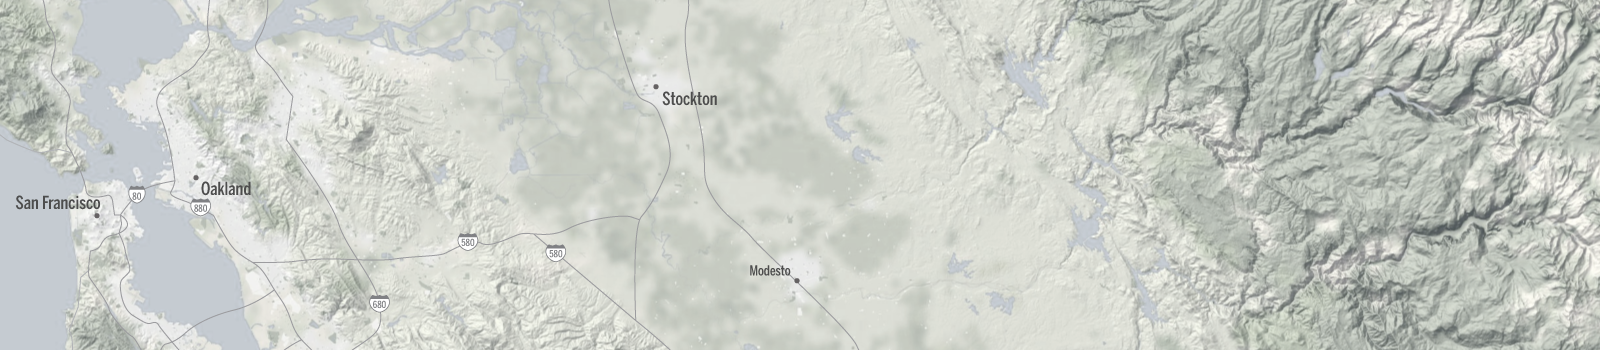
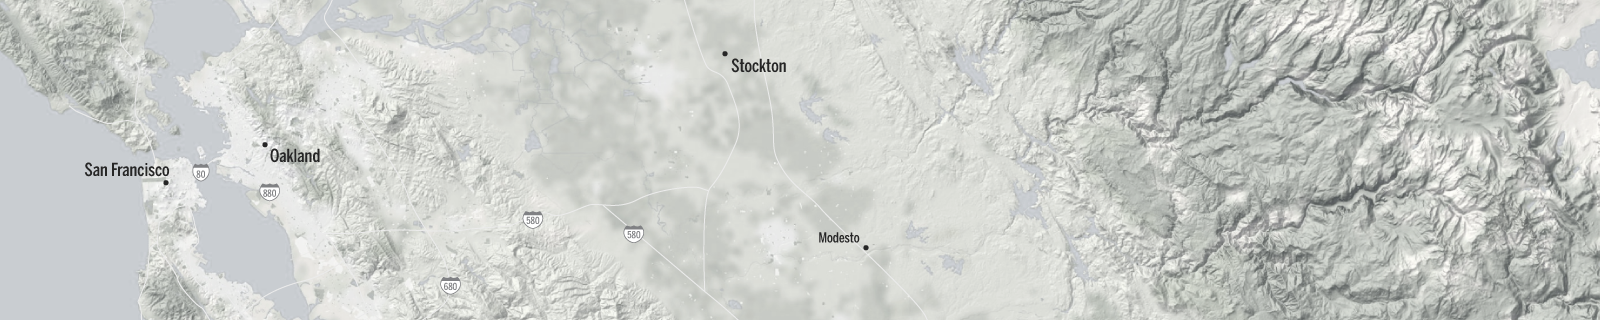
Add background colored polygon to map text

diff --git a/index.html b/index.html
@@ -21,101 +21,102 @@
         <div id="svgShape">
                 <svg version="1.1"
                      baseProfile="full"
-                     width="1600" height="350"
-                     viewBox="0 0 1600 350"
+                     width="1600" height="320"
+                     viewBox="0 0 1600 320"
                      xmlns="http://www.w3.org/2000/svg">
-                    <path fill="none" stroke="#636E6C" stroke-width="3" stroke-miterlimit="3.8637" d="
-                    M1522.372,207.638l4.882-19.149l-2.427-2.867l-0.813-2.043l-7.231,0.162l-2.477-0.573l-4.798-2.127l-16.026-3.763l-5.238-1.887
-                    l-9.763-9.981l-4.203-2.616l-9.007-3.852l-8.149-5.728l-1.353-2.288l-15.914-0.824l-18.914-0.161l-4.575,1.965l-3.201,0.573
-                    l-6.151-0.251l-4.809-1.141l-3.167,0.979l-3.317,2.049l-4.42,1.72l-13.493,2.126l-3.307,0.161l-7.442-0.735l-4.592-2.126
-                    l-1.102-1.063l-7.431-2.539l-5.304-1.146l-6.463-3.195l-3.145-2.694l-0.345-2.622l-8.144-2.371l-4.158-0.573l-0.752,0.573
-                    l-9.975,2.861l-1.43,1.147l-6.981,9.902l-4.564,3.518l-14.551,6.468l-4.38,5.56l-6.491,4.746l-6.207,2.206l-4.453,0.398
-                    l-5.171-0.178l-12.664,3.256l-8.021,2.984h-6.658l-5.16-5.516l-13.927,1.852l-3.329,1.882l-2.56,3.721l-0.819,2.231l-1.709,2.83
-                    l-2.733,3.419l-2.9,2.859l-0.968,1.549l-3.841,3.188l-1.887,0.823l-3.122,0.489l-9.213-0.49l-5.772,0.322l-4.019-0.568
-                    l-2.416-1.314l-1.614-1.714l-1.258-4.258l-0.862-1.475l-5.01-3.028l-5.06-4.086l-4.331-7.042l-3.562-4.336l-8.389-2.861
-                    l-5.082-0.412l-5.249,0.735l-7.898-1.147l-4.364-1.47l-1.688,1.316c-2-2.333-4.333-3.5-5.333-3.5s-3.333,0-4.667,0
-                    c-1.333,0-7.333-4.583-10-5.583c-2.667-1-0.333,4.25-1.333,5.25s-4.333,3.083-4.333,6.417c0,3.333-3.333,3.875-5.667,5.542
-                    s-2.333,6.604-0.667,7.271c1.667,0.667,5,0.302,10.333,1.969c5.333,1.667,2.667,3.318,6.333,3.651s3.333,2.992,5,5.326
-                    c1.667,2.333,1.667,7.996,0.667,8.329c-1,0.333-2.667,2.665-3.333,5.331c-0.667,2.667-1.667,5.666-3.667,5.666
-                    s-0.667,3.666,0.333,5c1,1.333,0,5.666-0.333,7.333c-0.333,1.667-3.333,5.667-4.667,5s-4.333,2.333-5,3.333
-                    s-8.667,8.667-10.667,7.333c-2-1.333-5,1.333-5.333,4c-0.333,2.667-2.667,6.333-4.333,8c-1.667,1.667-4.667,7.333-5.333,10
-                    c-0.667,2.667-6,2-7.667,1.333c-1.667-0.667-7.667-0.667-11-1c-3.333-0.333-6.667,7-7,11c-0.333,4-6.333,9.667-8.333,12.333
-                    c-2,2.667-7,2.667-9.667,0.333c-2.667-2.333-8.667-4-11-3.667c-2.333,0.333-3-2-5.333-1c-2.333,1-6.333-2-9-2.667
-                    c-2.667-0.667-11.5,0.833-14.667,3.333c-3.167,2.5-6.333,1.167-8.5-0.167c-2.167-1.333-1.833-2-4.5-1.667
-                    c-2.667,0.333-7.833-0.833-9.5-2c-1.667-1.167-4.833-1.833-7.167-2.167c-2.333-0.333-9.5-0.5-11.167,1
-                    c-1.667,1.5-2.333,4-4.667,3.167C931.833,283,931.833,282,930,283.667c-1.833,1.667-5,0.667-7.333,1
-                    c-2.333,0.333-12,0.833-14.333,1.833c-2.333,1-13.167,8.333-14.833,10.833s-3.333,1.5-5.167,1.5c-1.833,0-5.167-1.667-8.167-2.167
-                    s0,0-2.667-0.833c-2.667-0.833-1.167-1.667-3.5-1.833s-3.167-0.167-4,1s-1.5,1.167-1.833,0.667c-0.333-0.5-1.667-0.167-2.5,1.167
-                    c-0.833,1.333-1.833,0.333-2.833,0.333s-1.167-1.5-1.167-3.5s-0.833-4-1.167-5.5s-3.5,0.5-3.667,1.667c-0.167,1.167-2,1.5-4,1.5
-                    s-3.167,0.333-2.667,1.167s-1.333,2.167-2.167,2.5s-2.5-1-3.333-1.667c-0.833-0.667-1.833-0.833-3.333-0.333s-0.667,2.5-2.5,2.5
-                    c-1.833,0-2.833-0.667-2.833,1.167c0,1.833-1.167,2.167-4.5,1.833s-4.167,0-4.833,1.167c-0.667,1.167-2.333-0.167-2.167-1.167
-                    s0.333-2-2.667-2s-1.833-0.333-2.167-1.5c-0.333-1.167-7-2.167-8.333-1.333c-1.333,0.833-4.667,0.167-5.5-1
-                    c-0.833-1.167-4.167-2.5-4.833-1.833c-0.667,0.667-4,0.167-5.833,0.667c-1.833,0.5-3.667,2-0.5,3c3.167,1-1.5,2.167-1.333,5
-                    c0.167,2.833-4.667,2-6.167,1.667c-1.5-0.333-2.167-0.167-3,0.833c-0.833,1-4.167,1-5.333-0.333c-1.167-1.333-4.667-1.5-6.167-1.5
-                    s-4.667,4.167-4.833,5.667c-0.167,1.5-0.833,3-0.833,4.167s-3,2.5-4,5.333c-1,2.833-7.5,1.5-8.167-1.333
-                    c-0.667-2.833-4.333-1.333-4.5,1c-0.167,2.333-2.333,2.167-4.333,1.833c-2-0.333-3.833,0.333-4.5,2
-                    c-0.667,1.667-2.333,1.333-2.667-0.167c-0.333-1.5-0.5-3.833-2-2.667s-3.167-0.167-3.5-0.667C733,314.833,731,311,731,313
-                    s-0.833,2.167-3,1s-3.667,0-4.5,1.833c-0.833,1.833-5.5,1.667-7,1.833c-1.5,0.167-3.5-1.333-3.167-3.667
-                    c0.333-2.333-1.667-1.833-2.667-1.667c-1,0.167-0.167-6.333,0.5-8.5c0.667-2.167,0.5-4-1.333-3.667c-1.833,0.333-2.5,1-2.5-0.333
-                    c0-1.333-0.167-4.833-1.5-4.833c-1.333,0-2.833-4.5-3-6c-0.167-1.5-1.833-3.667-4.167-4.667c-2.333-1-3,3.333-4.167,6.167
-                    s-2.333-1.333-3.167-2.667c-0.833-1.333-0.333-3-1.667-2.667c-1.333,0.333-4.167,3-5,1.333c-0.833-1.667,0.333-4,1.5-5.167
-                    c1.167-1.167,2.5-3.833,0.333-4c-2.167-0.167-5-1.333-6.25-2.083s-0.75-3-0.75-6.25s-2-2.75-2.5-0.5s-3.25,1.5-3.5,0
-                    s-0.25-3.25-2.75-3.5s-2.25-2.75-2-5.25s4.5-4.25,2-5s-5,2-8,0.5s1.75-3,1.75-5s-1.5-3-1-6s5.75-8.25,4.75-9s-5.5-1.5-6.75,0
-                    s-0.25,6.75-0.75,4.5s-5.25-1-4.5-1s-0.5-4.5-0.75-6.25s-2.25-0.5-3-0.75s-0.5-3.5-0.25-5.5s2.5-7,1.25-10.5s-2.5,0.5-4.75,0.5
-                    s-0.75-1.25-0.5-5s3.75-2.75,4-4.25s-0.75-1-3.25-1s-1.5-5.25,0.75-5s4.75-0.5,7.25-1.75s1-3.25,0.25-2.75s-7,2.5-7.75,1.75
-                    s-1.25-2-1.75-4s-0.5-4.751-0.5-4.751s-2.25,2.249-3.25,0.499s0-7.003-1-6.753s-5.5-0.005-6.25-1.505s-1.75-6.76-4.5-5.76
-                    s-9.5,0.979-11.25-1.521s-7.25-0.042-9,2.208l-1.867,1.124L606,181.375l-3.052-1.509L598.25,181l-5.5-3.5l-4.25-4.5l-0.875-3.125
-                    l-0.315-4.002l0.267-4.642l0.863-2.544l3.968-6.736l11.934-4.844l0.78-6.095l-1.342-4.097l-1.497-2.911l-4.904-3l-9.892,0.907
-                    l-5.258,1.861l-1.48,1.353l-3.375,1.125l-6.75-0.25l-3.75-1.375l-4.534-0.491l-4.795-6.226l-5.906-8.917l-2.833-2.366l-3.084-1.731
-                    l-1.136-1.275l-0.089-1.636l-2.249-5.734l-1.798-1.548l-0.941-3.006l1.008-5.455l-1.264-2.372l0.29-3.089l0.818-2.823l0.29-4.008
-                    l-0.624-0.813l-0.556-7.464l3.334-4.643l1.208-5.366L543.125,63l-2.01-5.238l-0.785-2.366l-1.77-1.91l-2.739-5.549l0.1-6.19
-                    c0,0-9.099-5.127-13.137-2.515c0,0-7.785,0.267-8.285,3.517s-1.75,4.75-4,5.25s-4.25,2.25-5.75,3.5s-2-5.25-5.75-6.5s-4-3.75-5-5
-                    s-2.25,0-3-0.5s0.75-2.5-1-3.25s0.25-0.25-1.75-0.75s-2.75-1-3.5,0.5s-0.5,2.25-2.5,0s-2.25-4.25-2-5.25s-2-0.5-4.75-0.25
-                    s-2.25-2-5.25-1s-4,0.5-5.5,1.75s-2.25,2-2.25,4.5s-0.25,3.5-2,4.25s-2,2.25-4.25,3s-9,0.25-8.25,3.75s7.5,6,10.75,2.5
-                    s5.25,3.25,6.25,4s1.25,3.25-2.25,3.75S460,61.25,458,59.75s-4-4.75-4-2s1,4-4.75,0.25s-1.75,1.25-8.25-2.5s-9.75-3.5-15-1.75
-                    s-11.75,1.5-14.75,0.25s-2.5,1.75-5,0.75s-4.25-2.75-7.5-4.5s-3.25,0-6.25-0.75s-5.25-3.25-7.25-2.75s-2.25,1-9.5-2.5
-                    S370.5,38,367,38.75s-6.5,3.25-11.5,0s-5.5,0.25-9.25-1s-5.25-5.5-8.25-4s-6.75,2.25-12.25,1.75s-5.25-4.25-9.5-4
-                    s-9-1.75-12.75-2.75s-9,2.5-13.5,4.75s-2.75-2.75-9.5-0.5s-28.25,10.5-32,15.75s-7.75,2.25-11.25,0S227.25,33.5,220,32
-                    s-19.5-4-22.75-3.25s-0.5,2.75-4,3s-5-0.75-5.25,3.5s-1,6.25-3.75,5.25s-2.5,12.75-6.5,11.75s-2.75,0.25-5.25,2.5
-                    s-2.75,4.75-7.25,3.5s-4.5,4.5-8.75,4.5s-11.25-2-15.5-5.25s-3.5,2.5-2,5.75s4.5,7,2.75,7.5s-1,2-1.5,4.25s-2,2-3,2
-                    s0.5,3.25-1.5,3.25s-2.25-2.75-4.25-2s-0.25,4.5-2.75,4.5s-6,0.5-4.75,3.5s0.75,4-0.5,3.25s0.75,3.75-1.25,2.75s-3.75-6.75-8-7
-                    S106.5,83.75,108,87s3.5,4.75,4.5,6s1.5,2-0.5,2.5s-0.25,3,1.25,2.5s10.25,2-5.25,9"/>
-                    <g id="#section_9"> 
-                        <circle cx="123.682" cy="85.282" r="8"/>
-                        <text transform="matrix(1 0 0 1 62.5 73)">chapter 9</text>
+                    <path fill="none" stroke="#5ABAE0" stroke-width="2.5" stroke-miterlimit="3.8637" d="
+                    M1519.667,141.167c-3.333-1.333-21.333,5.333-24.667,0.667c-3.333-4.667-3.333-12-10.667-10c-7.333,2-11.333-14-22.667-14
+                    c-11.333,0-22.667-7.333-30-12.667c-7.333-5.333-5.333-2.667-12-8.667c-6.667-6-9.333-7.333-16-7.333c-6.667,0-7.333,4-16.667-2
+                    s-14.667-3.333-23.333,0c-8.667,3.333-23.333,10-33.333,10.667c-10,0.667-14-4.667-24-8.667s-24.667-11.333-29.333-9.333
+                    s-6.667,10-9.333,15.333c-2.667,5.333-9.333,5.333-11.333,8.667c-2,3.333-13.333,12.667-16.667,13.333
+                    c-3.333,0.667-5.333-3.333-9.333-3.333s-14,6-18.667,7.333c-4.667,1.333-11.333,2-16-3.333C1191,112.5,1187,118.5,1181,120.5
+                    s-4.667,8.667-5.333,17.333c-0.667,8.667-9.333,0.667-13.333,2c-4,1.333-9.333,2-14.667,0c-5.333-2-8-2.667-12.667-6.667
+                    s-3.333-7.333-8-13.333s-8-11.333-14-7.333s-5.333-2-10.667-4c-5.333-2-7.333-0.667-11.333,1.333s-4-2-8.667-1.333
+                    c-4.667,0.667-8.667,6.667-13.333,11.333c-4.667,4.667-6-2-10.667-2.667c-4.667-0.667-8.667-1.333-8.667,6.667
+                    s-0.667,9.333-3.333,18l-0.879,3.667c8.545,5,19.545,2,29.545,4c2,1,4,2,5,3c4,7,9,12,14.517,17.003c0,0-5.517,2.997-8.017,9.997
+                    s-6,18.5-15.5,16s-15.5-11.5-22.5-7l-26.084,22.899C1013,212.5,1012,221.5,1008,228.5c-4,8-12,4-19,4c-2,0-3,2-4,3c-3,8-5,20-17,17
+                    c-13-3-26-11-38-2c-11-1-24-12-35-3c-1,1-3-1-4-1s-1,2-2,2c-13-2-25,5-35,13c-3-2-7-3-11-4c-2,0-5,1-7,2c-7,2-5-4-7-8h-2
+                    c-2,2-3,4-7,3c0.392,2.627,1.52,0.557,0,0c0.34,2.979-1.766,1.877-3.679,1.736c-2.834-0.21-5.486,1.259-8.321,1.264
+                    c0.461,3.374,2.109,0.846,0,0c0,1,0,1,0,2c-2,3-7,2-10,2c-9-2-17-11-27-7c0,0-1,1-1,2s2,1,2,2s0,1,0,2c-4,5-11,4-17,2c-2,0-5,1-6,3
+                    c0,3-2,5-3,8c-1,1-2,2-3,3c-3,0-5-1-7-4c-4,2-8,5-13,6c0.51,0.033,0.775,0.048,1.301,0.243c-0.435,0.046-0.865-0.123-1.301-0.243
+                    c0.946-1.253,0.924-2.794-0.676-2.922c-1.268-0.101-1.327,1.654-3.031,0.233c-0.787-0.656-0.916-2.862-2.129-3.018
+                    c-0.416-0.053-1.04,0.651-1.43,0.729c-1.07,0.215-1.516,0.285-2.707,0.292c-3.241,0.02-3.547,3.704-6.847,3.746
+                    c-2.483,0.032-6.134-2.159-5.18-5.061c-4.969,0.261-2.135-5.154-1.924-7.797c0.229-2.865-1.92-2.84-3.577-4.853
+                    c-1.503-1.827-2.315-4.108-3.188-6.272c-0.79-1.958-1.765-4.897-4.311-5.078c-3.179-0.225-1.174,1.996-1.763,3.696
+                    c-0.844,2.435-2.803,0.492-4.228-0.569c-1.814-1.35-3.598-2.75-6.009-2.127c0.088-1.801,2.833-5.151,1.947-6.713
+                    C673,242.5,673,237.5,671,233.5c-1-1-2,1-3,2c-2,1-2-2-2-4c-6.765,0.296-2.204-5.371-2-9c-2-1-5,1-6-1c0-5,1-10,3-15c0-1-1-2-1-2
+                    c-4-1-4,2-4.534,5.398c-0.093-0.563-0.135-1.111-0.059-1.668c0.122,0.542,0.144,1.05,0.059,1.668
+                    c-0.315-2.684-3.713-0.495-4.676-2.524c-0.613-1.292,0.896-2.94-0.391-4.187c-0.675-0.654-1.726-0.174-2.499-0.919
+                    c-3.389-3.269,2.499-10.623,0.1-14.768c-1.028,2.035-4.17,1.659-4.156-0.771c0.013-2.238,3.956-3.568,3.585-5.745
+                    c-0.308-1.805-4.594-1.224-3.708-3.939c0.544-1.668,3.428-1.343,4.752-1.523c1.354-0.184,4.904-0.814,4.438-2.889
+                    c-0.606-2.699-3.613,0.176-4.754,0.675c-4.888,2.139-4.322-4.616-4.565-7.603c-0.665,0.589-1.246,1.285-1.55,2.125
+                    c0.887-0.373,1.449-1.169,1.55-2.125c-0.693,0.67-1.641,0.926-2.592,0.797c1-4-3-5-6-7c-1-1-1-4-2-5c-5-2-11-3-16-3c-3,1-5,4-7,6
+                    c-5,3-10-1-14-2c-2-1-3-2-4-4c-2-4-2-9,0-14c3-5,8-5,13-8c1-1,3-2,3-4c1-11-13-13-21-9c-1,1-2,2-3,2c-5,2-12,3-16-3
+                    c-4-7-9-12-15-17c-7-8-2-19-3-29c8-10-1-21-4-32c0-2-4-2-7-3c-8-2-11,7-17,10c-1,0-3,1-3,1c-4-4-7-9-11-12c-2-1-3-5-7,0
+                    c-1.29-1.762,1.73-2.488,0,0c-3-6-9-10-15-6c-3,2-4,6-6,9c-3,2-7,2-10,4c1.267,2.229,4.909-2.062,0,0c2.965,3.967,8.285,6.736,12,2
+                    c1,1,3,3,4,4c0,5-6,6-10,4c-1,0-1,2-1,3c-0.366-0.686-0.71-1.435-0.832-2.161c0.509,0.599,0.772,1.368,0.832,2.161c-3-4-9-2-13-5
+                    c-1-1-1-2-2-2c-6,0-13,2-19,2c-10,0-19-5-29-7c-4-1-6-4-9-6c-4-2-8,1-12,0c-9-4-19-4-29-4c-5-4-11-7-18-6c-9,2-17,2-25,6
+                    c-7,2-15,5-21,11c-3,2-8,4-11,1c-7-7-13-17-24-18c-4,0-7,0-11,0c-2,0-5,1-6,3c-6,10-11,23-24,23c-5,6-13,2-19-1c-1,0-3,0-3,1
+                    c-1,3,2,5,3,7s2,3,1,5c-2,4-5,10-10,6c0.47,0.537,0.352,0.512,0.991,0.786c-0.237-0.391-0.461-0.508-0.991-0.786
+                    c0.06,2.515-2.408,2.928-3.994,4.183c-2.389,1.891-2.118,5.077-3.006,7.817c-1.318-1.824,1.854-1.72,0,0
+                    c-1.701-2.31-3.526-4.716-6.15-6.021c-1.363-0.678-5.235-2.114-6.326-0.223c-1.662,2.881,8.268,7.088,2.476,9.244
+                    c1.292,1.91,4.751,1.345,5.176,3.86c0.628,3.712-5.166,5.257-7.731,5.569"/>
+                    
+                        <g id="#section_10"> 
+                            <circle cx="228.076" cy="129.277" r="8"/>
+                            <rect x="130" y="75.5" width="140" height="35"/>
+                            <text transform="matrix(1 0 0 1 140.557 101.1067)"> Berkeley Marina </text>
+                        </g>
+                        <g id="#section_9">
+                            <circle cx="231.076" cy="290.277" r="8"/>
+                            <rect x="100" y="267.5" width="105" height="35"/>
+                            <text transform="matrix(1 0 0 1 110.557 293.1068)" > San Mateo </text>
+                        </g>
+                        <g id="#section_8">
+                            <circle cx="323.942" cy="63.351" r="8"/>
+                            <rect x="353" y="67.5" width="90" height="35"/>
+                            <text transform="matrix(1 0 0 1 362.557 93.1067)" > Concord </text>
+                        </g>
+                        <g id="#section_7">
+                            <circle cx="358.682" cy="281.282" r="8"/>
+                            <rect x="265" y="228.5" width="85" height="35"/>
+                            <text transform="matrix(1 0 0 1 275.557 254.1067)" > Fremont </text>
+                        </g>
+                        <g id="#section_6">
+                            <circle cx="717.106" cy="277.952" r="8"/>
+                            <rect x="498" y="259.5" width="205" height="35"/>
+                            <text transform="matrix(1 0 0 1 508.557 285.1068)" > San Joaquin River NWR </text>
+                        </g>
+                        <g id="#section_5">    
+                            <circle cx="907.99" cy="243.866" r="8"/>
+                            <rect x="835" y="187.5" width="135" height="35"/>
+                            <text transform="matrix(1 0 0 1 845.557 213.1067)" > Frantz Nursery </text>
+                        </g>
+                        <g id="#section_4">    
+                            <circle cx="1027.97" cy="206.83" r="8"/>
+                            <rect x="1039" y="232.5" width="160" height="35"/>
+                            <text transform="matrix(1 0 0 1 1048.557 258.1068)" > Don Pedro Marina </text>
+                        </g>
+                        <g id="#section_3">    
+                            <circle cx="1086.21" cy="168.25" r="8"/>
+                            <rect x="1112" y="165.5" width="205" height="35"/>
+                            <text transform="matrix(1 0 0 1 1121.557 191.1067)" > Moccasin Power House </text>
+                        </g>
+                        <g id="#section_2">    
+                            <circle cx="1292.291" cy="80.171" r="8"/>
+                            <rect x="1165" y="20.5" width="200" height="35"/>
+                            <text transform="matrix(1 0 0 1 1174.557 46.1067)" > Hetch Hetchy Reservoir </text>
+                        </g> 
+                        <g id="#section_1">    
+                            <circle cx="1517.107" cy="136.894" r="8"/>
+                            <rect x="1467" y="73.5" width="91" height="35"/>
+                            <text transform="matrix(1 0 0 1 1476.557 99.1067)" > Mt.Dana </text>
+                        </g> 
+                    
+                    <g id="credit">
+                        <text transform="matrix(1 0 0 1 1320 315)">Map data by OpenStreetMap, under CC-BY-SA.</text>
                     </g>
-                    <g id="#section_8">
-                        <circle cx="240.942" cy="50.351" r="8"/>
-                        <text transform="matrix(1 0 0 1 210 81.5)" >chapter 8</text>
-                    </g>
-                    <g id="#section_7">
-                        <circle cx="461.076" cy="36.277" r="8"/>
-                        <text transform="matrix(1 0 0 1 432 81.5)" >chapter 7</text>
-                    </g>
-                    <g id="#section_6">
-                        <circle cx="558.106" cy="128.952" r="8"/>
-                        <text transform="matrix(1 0 0 1 501 155.5)" >chapter 6</text>
-                    </g>
-                    <g id="#section_5">
-                        <circle cx="694.99" cy="286.866" r="8"/>
-                        <text transform="matrix(1 0 0 1 628 302.5)" >chapter 5</text>
-                    </g>
-                    <g id="#section_4">    
-                        <circle cx="1072.97" cy="247.83" r="8"/>
-                        <text transform="matrix(1 0 0 1 1007 236.5)" >chapter 4</text>
-                    </g>
-                    <g id="#section_3">    
-                        <circle cx="1147.21" cy="173.25" r="8"/>
-                        <text transform="matrix(1 0 0 1 1129 146.5)" >chapter 3</text>
-                    </g>
-                    <g id="#section_2">    
-                        <circle cx="1419.291" cy="151.171" r="8"/>
-                        <text transform="matrix(1 0 0 1 1373 181.5)" >chapter 2</text>
-                    </g>
-                    <g id="#section_1">    
-                        <circle cx="1520.107" cy="182.894" r="8"/>
-                        <text transform="matrix(1 0 0 1 1528 162.5)" >chapter 1</text>
-                    </g>         
+ 
                                                                   
                 </svg>
         </div>
@@ -250,7 +251,22 @@
                 <div class="img">
                     <img src="http://placehold.it/350x150">
                 </div>
-            </div>                                          
+            </div>   
+
+            <div class="section" id="section_10">
+                <div class="title">Chapter 10</div>
+                <p>
+                    "Lorem ipsum dolor sit amet, consectetur adipisicing elit, sed do eiusmod tempor incididunt ut labore et dolore magna aliqua. Ut enim ad minim veniam, quis nostrud exercitation ullamco laboris nisi ut aliquip ex ea commodo consequat. Duis aute irure dolor in reprehenderit in voluptate velit esse cillum dolore eu fugiat nulla pariatur. Excepteur sint occaecat cupidatat non proident, sunt in culpa qui officia deserunt mollit anim id est laborum."<br/>
+                    "Lorem ipsum dolor sit amet, consectetur adipisicing elit, sed do eiusmod tempor incididunt ut labore et dolore magna aliqua. Ut enim ad minim veniam, quis nostrud exercitation ullamco laboris nisi ut aliquip ex ea commodo consequat. Duis aute irure dolor in reprehenderit in voluptate velit esse cillum dolore eu fugiat nulla pariatur. Excepteur sint occaecat cupidatat non proident, sunt in culpa qui officia deserunt mollit anim id est laborum."<br/>
+                    "Lorem ipsum dolor sit amet, consectetur adipisicing elit, sed do eiusmod tempor incididunt ut labore et dolore magna aliqua. Ut enim ad minim veniam, quis nostrud exercitation ullamco laboris nisi ut aliquip ex ea commodo consequat. Duis aute irure dolor in reprehenderit in voluptate velit esse cillum dolore eu fugiat nulla pariatur. Excepteur sint occaecat cupidatat non proident, sunt in culpa qui officia deserunt mollit anim id est laborum."<br/>
+                    "Lorem ipsum dolor sit amet, consectetur adipisicing elit, sed do eiusmod tempor incididunt ut labore et dolore magna aliqua. Ut enim ad minim veniam, quis nostrud exercitation ullamco laboris nisi ut aliquip ex ea commodo consequat. Duis aute irure dolor in reprehenderit in voluptate velit esse cillum dolore eu fugiat nulla pariatur. Excepteur sint occaecat cupidatat non proident, sunt in culpa qui officia deserunt mollit anim id est laborum."<br/>
+                    "Lorem ipsum dolor sit amet, consectetur adipisicing elit, sed do eiusmod tempor incididunt ut labore et dolore magna aliqua. Ut enim ad minim veniam, quis nostrud exercitation ullamco laboris nisi ut aliquip ex ea commodo consequat. Duis aute irure dolor in reprehenderit in voluptate velit esse cillum dolore eu fugiat nulla pariatur. Excepteur sint occaecat cupidatat non proident, sunt in culpa qui officia deserunt mollit anim id est laborum."<br/>
+                    "Lorem ipsum dolor sit amet, consectetur adipisicing elit, sed do eiusmod tempor incididunt ut labore et dolore magna aliqua. Ut enim ad minim veniam, quis nostrud exercitation ullamco laboris nisi ut aliquip ex ea commodo consequat. Duis aute irure dolor in reprehenderit in voluptate velit esse cillum dolore eu fugiat nulla pariatur. Excepteur sint occaecat cupidatat non proident, sunt in culpa qui officia deserunt mollit anim id est laborum."<br/>
+                </p>
+                <div class="img">
+                    <img src="http://placehold.it/350x150">
+                </div>
+            </div>                                                 
         </div>
 
         <script src="//ajax.googleapis.com/ajax/libs/jquery/1.10.2/jquery.min.js"></script>

diff --git a/css/main.css b/css/main.css
@@ -52,37 +52,46 @@ svg {
 	background-position: center;
 	background-repeat:no-repeat; 
 	image-rendering: -moz-optimizeQuality;         /* Firefox */
-    image-rendering:   -o-optimizeQuality;         /* Opera */
+    image-rendering: -o-optimizeQuality;         /* Opera */
     image-rendering: -webkit-optimize-contrast;/* Webkit (non-standard naming) */
     image-rendering: optimizeQuality;
     -ms-interpolation-mode: nearest-neighbor;  /* IE (non-standard property) */
 }
-svg text {
+svg g rect {
+	fill:#3F3F3F;
+	fill-opacity:0.7;
+}
+svg g#credit text {
 	font-size:0.8em;
+	fill:#E2E2E2;
+	cursor:default;
+}
+svg g text{
+	font-size:1.1em;
 	fill:#EDEDED;
 	cursor:pointer;
 }
-svg text:hover {
-	fill:#444444;
-}
+/*svg g text:hover {
+	fill:#F5D159;
+}*/
 svg g circle {
-	fill:#FDFAD8;
+	fill:#BCEBF5;
 	cursor:pointer;
 }
-svg g circle:hover {
-	fill:#FEC979;
-}
+/*svg g circle:hover {
+	fill:#1A5B71;
+}*/
 .old {
-	fill:#FDFAD8;
+	fill:#BCEBF5;
 }
 .newclass {
-	fill:#FEC979;
+	fill:#1A5B71;	
 }
 .oldText {
 	fill:#EDEDED;
 }
 .newclassText {
-	fill:#444444;
+	fill:#F5D159;
 }
 /*Nav*/
 /*Body*/

diff --git a/js/main.js b/js/main.js
@@ -13,6 +13,27 @@ $(document).ready(function(){
 
     })//end click
 
+    //hover 
+    $("circle").hover(
+        function(){
+            $(this).attr("class", "old newclass");
+            $(this).parent().find('text').attr("class", "oldText newclassText");
+        },function(){
+            $(this).attr("class", "old");
+            $(this).parent().find("text").attr("class", "oldText");
+        }
+    );
+    $("text").hover(
+        function(){
+            $(this).attr("class", "oldText newclassText");
+            $(this).parent().find('circle').attr("class", "old newclass");
+        },function(){
+            $(this).attr("class", "oldText");
+            $(this).parent().find("circle").attr("class", "old");
+        }
+    );
+
+
     var navChild = $("g");
     var navHref = [];
     
@@ -53,5 +74,8 @@ $(document).ready(function(){
             }
         }
     }); 
+
+    
+
 });//end ready
 
